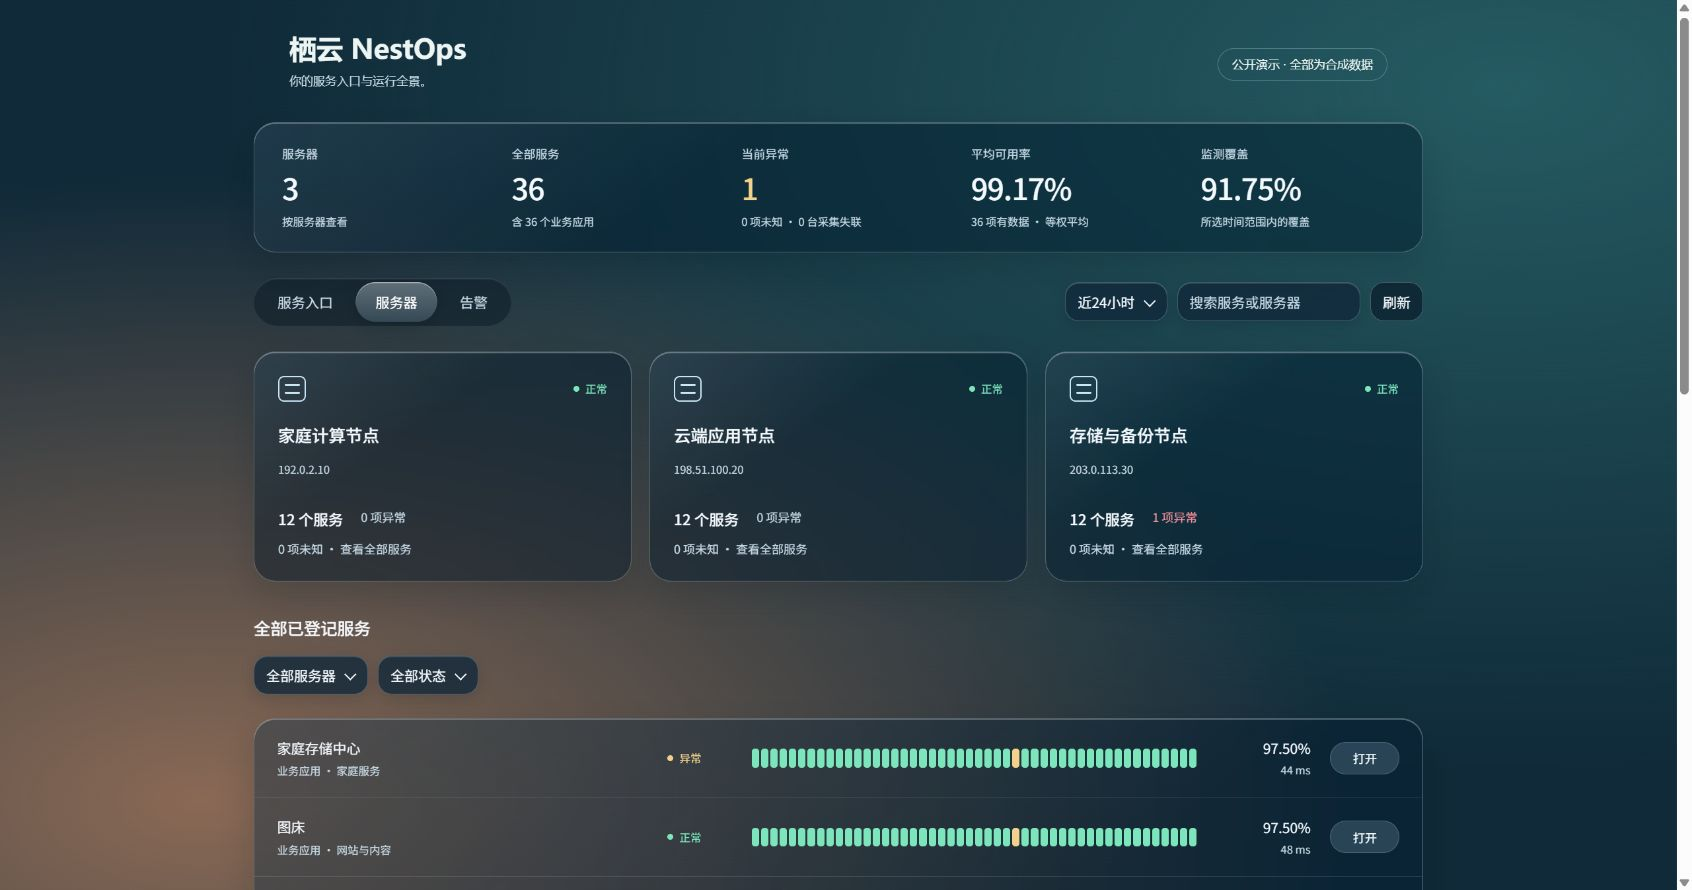
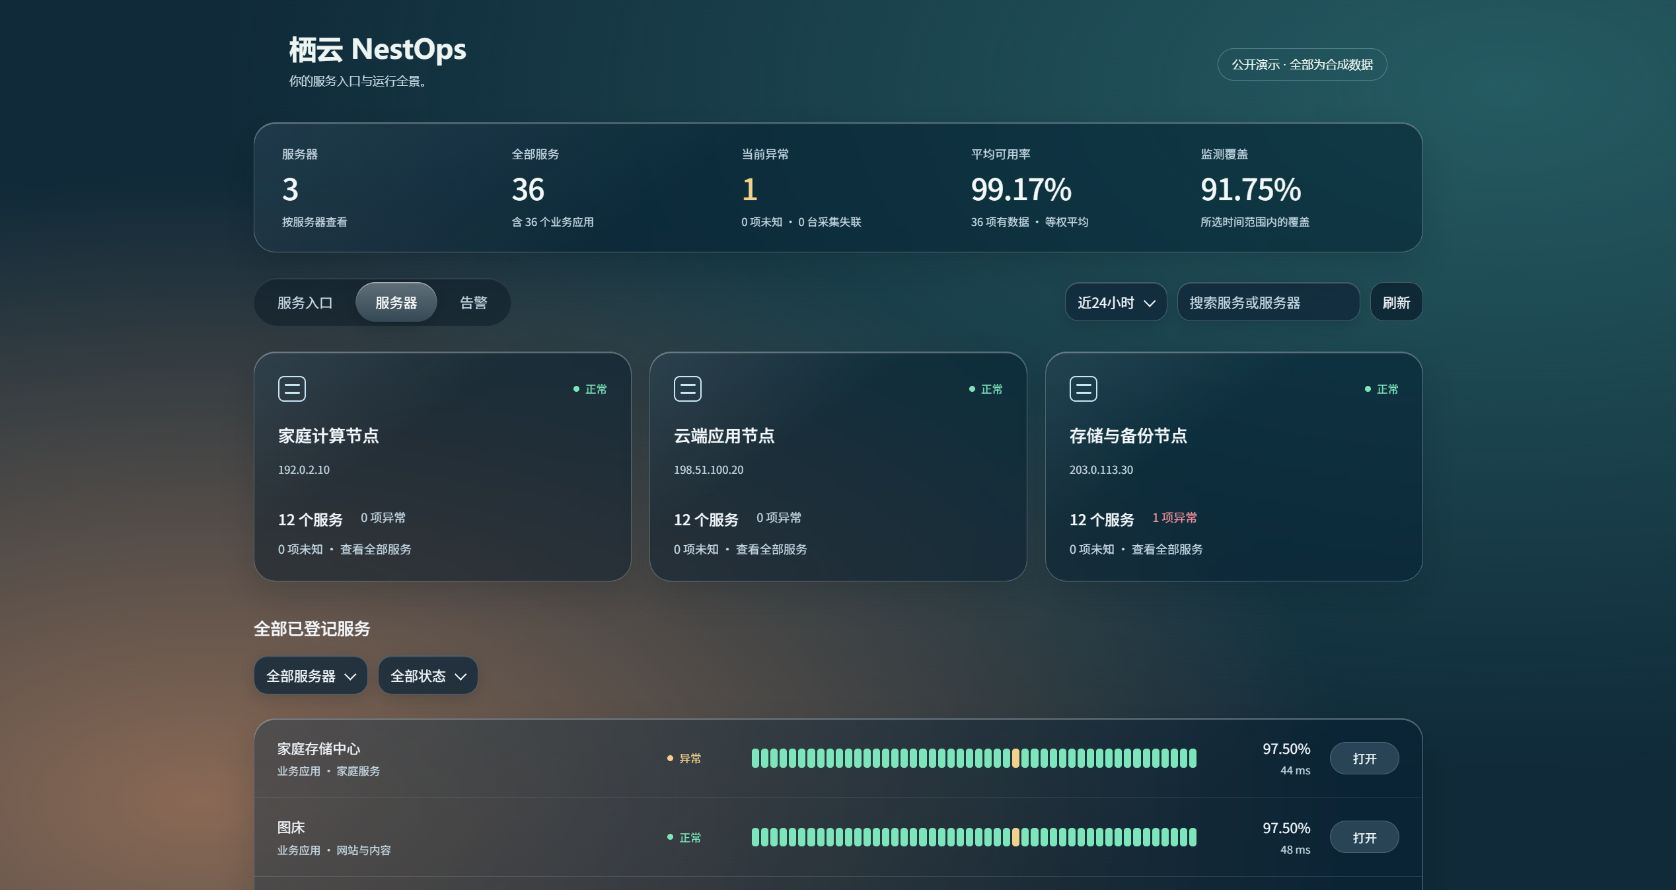
Polish README structure and gallery previews

diff --git a/README.md b/README.md
@@ -9,7 +9,7 @@
     <img src="https://img.shields.io/badge/collector-Linux%20%7C%20NAS%20%7C%20macOS-555" alt="采集器平台">
     <a href="https://github.com/DongLiStudio/nest-ops/stargazers"><img src="https://img.shields.io/github/stars/DongLiStudio/nest-ops?style=flat" alt="GitHub Stars"></a>
   </p>
-  <p><a href="#快速开始">快速开始</a> · <a href="docs/deployment.md">部署指南</a> · <a href="docs/configuration.md">统计口径</a> · <a href="https://github.com/DongLiStudio/nest-ops/issues">反馈问题</a></p>
+  <p><a href="#快速开始">快速开始</a> · <a href="#界面预览">界面预览</a> · <a href="#架构与边界">架构与边界</a> · <a href="docs/deployment.md">部署指南</a> · <a href="https://github.com/DongLiStudio/nest-ops/issues">反馈问题</a></p>
 </div>
 
 ---
@@ -45,24 +45,6 @@
 
 详细的预览说明、截图口径和移动端检查见 [界面预览文档](docs/preview.md)。可运行 `python scripts/preview.py` 在本机查看服务入口、排序列表与多页事件。
 
-## Star History
-
-如果 NestOps 对你有帮助，欢迎在 GitHub 点 Star。下图由 [Star History](https://www.star-history.com/) 自动生成，会随仓库公开 Star 数变化更新；点击图表可查看交互版。
-
-<p align="center">
-  <a href="https://www.star-history.com/#DongLiStudio/nest-ops&Date"><img src="https://api.star-history.com/svg?repos=DongLiStudio/nest-ops&type=Date" alt="NestOps GitHub Star History" width="760"></a>
-</p>
-
-```text
-浏览器 → 独立 HTTPS 网关 → Homepage / NestOps 只读控制台
-                              ↑
-                HTTP 检查 + 各主机 HTTPS 采集回传
-                              ↓
-                    SQLite 历史 → 邮件告警
-```
-
-每台采集器使用独立令牌；页面数据复用 Homepage 登录会话。认证中心、共享网关和 NestOps 分开部署，更新门户不需要同时重启认证服务。架构示意不代表所有环境均已验收。
-
 ## 快速开始
 
 需要 Linux 中心服务器、Docker Engine 与 Compose v2、Python 3、可用 HTTPS 域名及证书。仓库不含私人配置。
@@ -86,6 +68,22 @@ docker compose ps
 
 详见 [部署](docs/deployment.md)、[采集器](docs/collectors.md)、[配置与统计口径](docs/configuration.md)、[升级与恢复](docs/maintenance.md)。原生 HomeTunnel 链接是可选集成，需要另外安装对应客户端。
 
+## 架构与边界
+
+```text
+浏览器 → 独立 HTTPS 网关 → Homepage / NestOps 只读控制台
+                              ↑
+                HTTP 检查 + 各主机 HTTPS 采集回传
+                              ↓
+                    SQLite 历史 → 邮件告警
+```
+
+每台采集器使用独立令牌；页面数据复用 Homepage 登录会话。认证中心、共享网关和 NestOps 分开部署，更新门户不需要同时重启认证服务。架构示意不代表所有环境均已验收。
+
+中心服务只提供观察和入口；网页重启、更新和远程命令未实现。监测开始前没有历史数据，未知不计作正常，运行状态不等同于完整业务验收。
+
+部署边界：`compose.yml` 仅包含 Homepage、console、status。`compose.gateway.yml` 管理共享 HTTPS 网关；可选 `compose.auth.yml` 单独管理 Authelia。已有认证中心时直接连接外部 OIDC，无需部署本仓库的认证示例。三组服务分别启动、停止和更新，勿把三个文件通过 `-f` 合并成一个项目。
+
 ## 验证与开发
 
 ```sh
@@ -97,21 +95,25 @@ node scripts/test_ui.cjs
 
 这些是源码、脱敏与离线回归检查；不替代实际 Docker 启动、认证、TLS、浏览器交互和通知送达验收。首次部署应按部署文档逐项检查。
 
-## 来源与许可
+## 参与贡献与交流
 
-NestOps 以 GPL-3.0 发布。内附固定版本 Homepage 源码与完整许可证，参见 [UPSTREAM.md](UPSTREAM.md)。Homepage、Authelia、Nginx、Python 及其他第三方组件各自的许可证和署名保持不变。
+欢迎通过 [Issues](https://github.com/DongLiStudio/nest-ops/issues) 报告问题或讨论功能，通过 Pull Request 提交改进。报告中请提供版本、部署方式、复现步骤和预期结果；不要上传令牌、Cookie、私有服务目录、真实服务器地址或未脱敏截图。
 
-中心服务只提供观察和入口；网页重启、更新和远程命令未实现。监测开始前没有历史数据，未知不计作正常，运行状态不等同于完整业务验收。
-
-部署边界：`compose.yml` 仅包含 Homepage、console、status。`compose.gateway.yml` 管理共享 HTTPS 网关；可选 `compose.auth.yml` 单独管理 Authelia。已有认证中心时直接连接外部 OIDC，无需部署本仓库的认证示例。三组服务分别启动、停止和更新，勿把三个文件通过 `-f` 合并成一个项目。
+提交前运行上面的验证命令；不要修改 `vendor/homepage` 的固定上游源码。部署、源码验证、浏览器验收和正式 Release 是不同状态，功能支持以文档及实际测试为准。
 
 ## 相关项目
 
 - [HomeTunnel · 家庭隧道](https://github.com/DongLiStudio/HomeTunnel)：从服务主页打开基于 SSH Agent 的私有 Web 隧道；独立安装，可选集成。
 - [Personal Agent Foundation](https://github.com/DongLiStudio/personal-agent-foundation)：可安装、迁移与恢复的个人 Agent 工作基座；不是运行 NestOps 的必要依赖。
 
-## 参与贡献与交流
+## 来源与许可
 
-欢迎通过 [Issues](https://github.com/DongLiStudio/nest-ops/issues) 报告问题或讨论功能，通过 Pull Request 提交改进。报告中请提供版本、部署方式、复现步骤和预期结果；不要上传令牌、Cookie、私有服务目录、真实服务器地址或未脱敏截图。
+NestOps 以 GPL-3.0 发布。内附固定版本 Homepage 源码与完整许可证，参见 [UPSTREAM.md](UPSTREAM.md)。Homepage、Authelia、Nginx、Python 及其他第三方组件各自的许可证和署名保持不变。
 
-提交前运行上面的验证命令；不要修改 `vendor/homepage` 的固定上游源码。部署、源码验证、浏览器验收和正式 Release 是不同状态，功能支持以文档及实际测试为准。
+## Star History
+
+如果 NestOps 对你有帮助，欢迎在 GitHub 点 Star。下图由 [Star History](https://www.star-history.com/) 自动生成，会随仓库公开 Star 数变化更新；点击图表可查看交互版。
+
+<p align="center">
+  <a href="https://www.star-history.com/#DongLiStudio/nest-ops&Date"><img src="https://api.star-history.com/svg?repos=DongLiStudio/nest-ops&type=Date" alt="NestOps GitHub Star History" width="760"></a>
+</p>

diff --git a/STATUS.md b/STATUS.md
@@ -1,5 +1,7 @@
 # Status
 
+README 的阅读路径已调整为“界面预览 → 快速开始 → 架构与边界 → 验证与贡献 → 相关项目 → 许可 → Star History”，避免 Star History 打断产品说明。四张合成预览图已统一去除右侧浏览器滚动条，告警图改用无底部遮挡的原始合成画面；未涉及运行时代码或生产配置。
+
 Event panels retain their DOM and loaded records across tab changes and background refreshes. First pages are prefetched and seeded from the current authenticated snapshot; empty first loads use matching event skeleton rows. Pagination failures retain existing data, and request cancellation/sequence checks prevent late responses from overwriting the selected page. Delayed, duplicate, failed and out-of-order response regression tests cover these paths.
 
 Service lists now sort by selected-window availability, coverage and stable name/ID before pagination. Authenticated event pagination queries the retained database with time/resource filtering and a fixed browsing anchor; alerts and detail views use 15-record pages. Existing statistics and visual language are preserved. Synthetic desktop pagination and 390px viewport checks passed; production rollout and CI status must be verified separately.

diff --git a/docs/preview.md b/docs/preview.md
@@ -1,6 +1,6 @@
 # NestOps 界面预览
 
-本页展示公开仓库中的界面样式和交互范围。所有截图都由 `scripts/preview.py` 使用合成数据生成，仅用于说明界面，不代表任何生产环境的服务数量、可用率或告警记录。
+本页展示公开仓库中的界面样式和交互范围。所有截图都由 `scripts/preview.py` 使用合成数据生成，仅用于说明界面，不代表任何生产环境的服务数量、可用率或告警记录。截图已裁去浏览器滚动条；告警图使用无遮挡的完整合成画面。
 
 ## 服务入口
 
